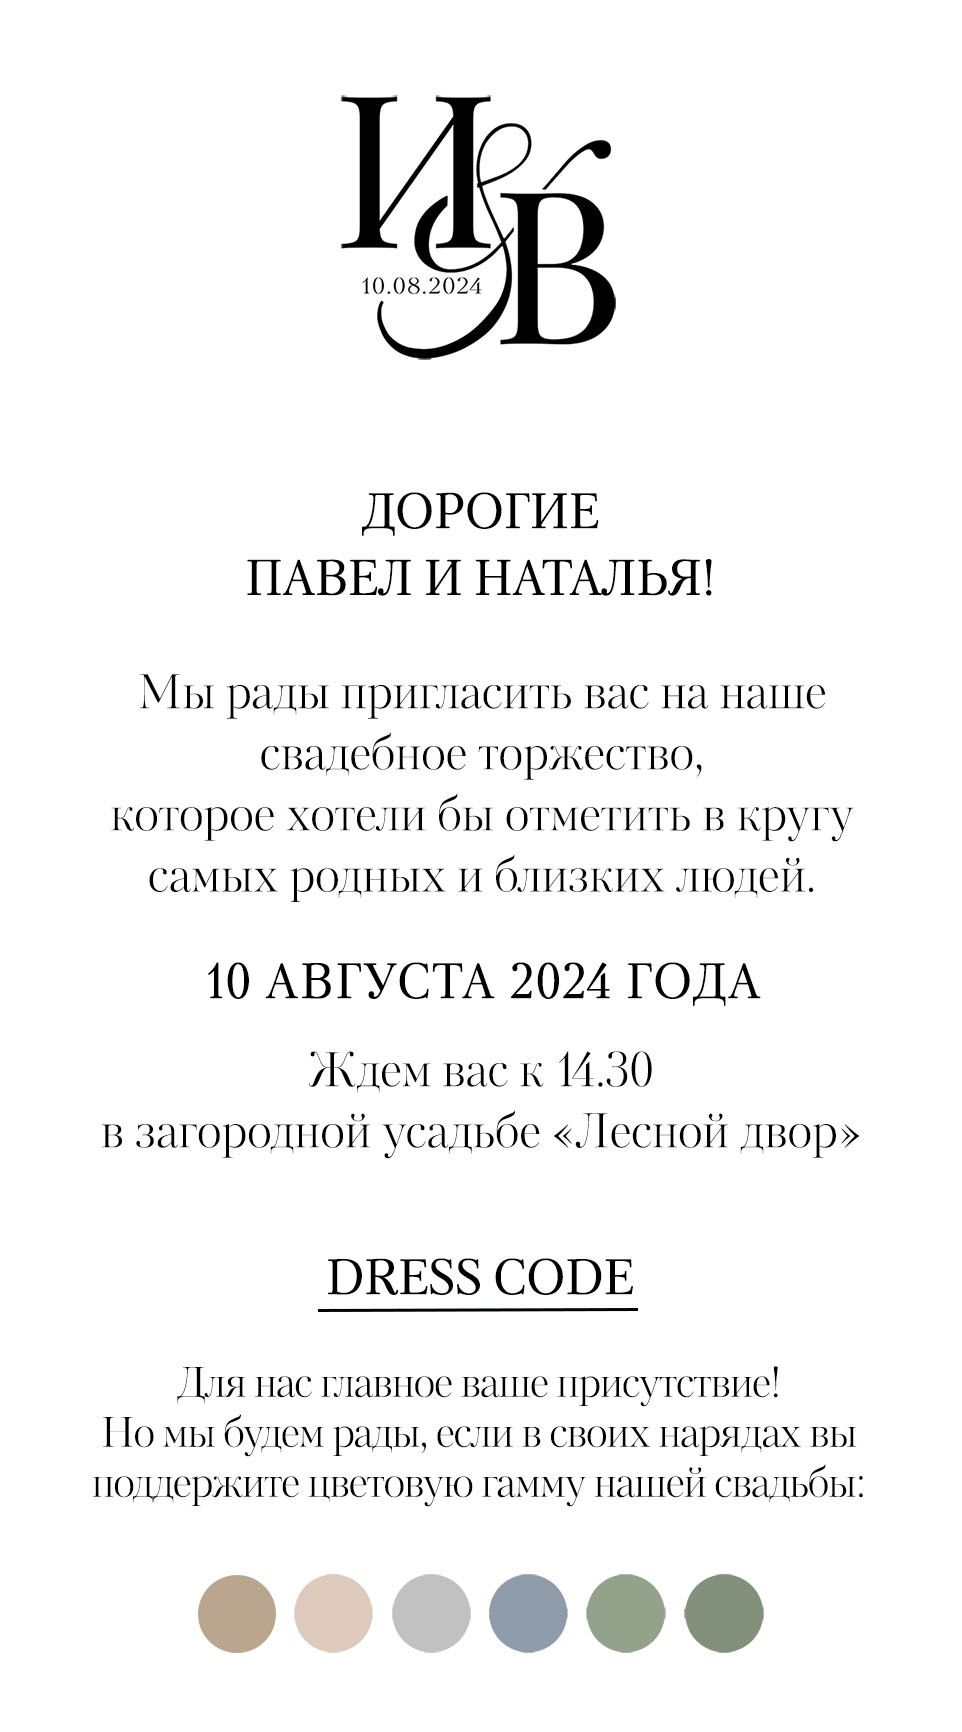
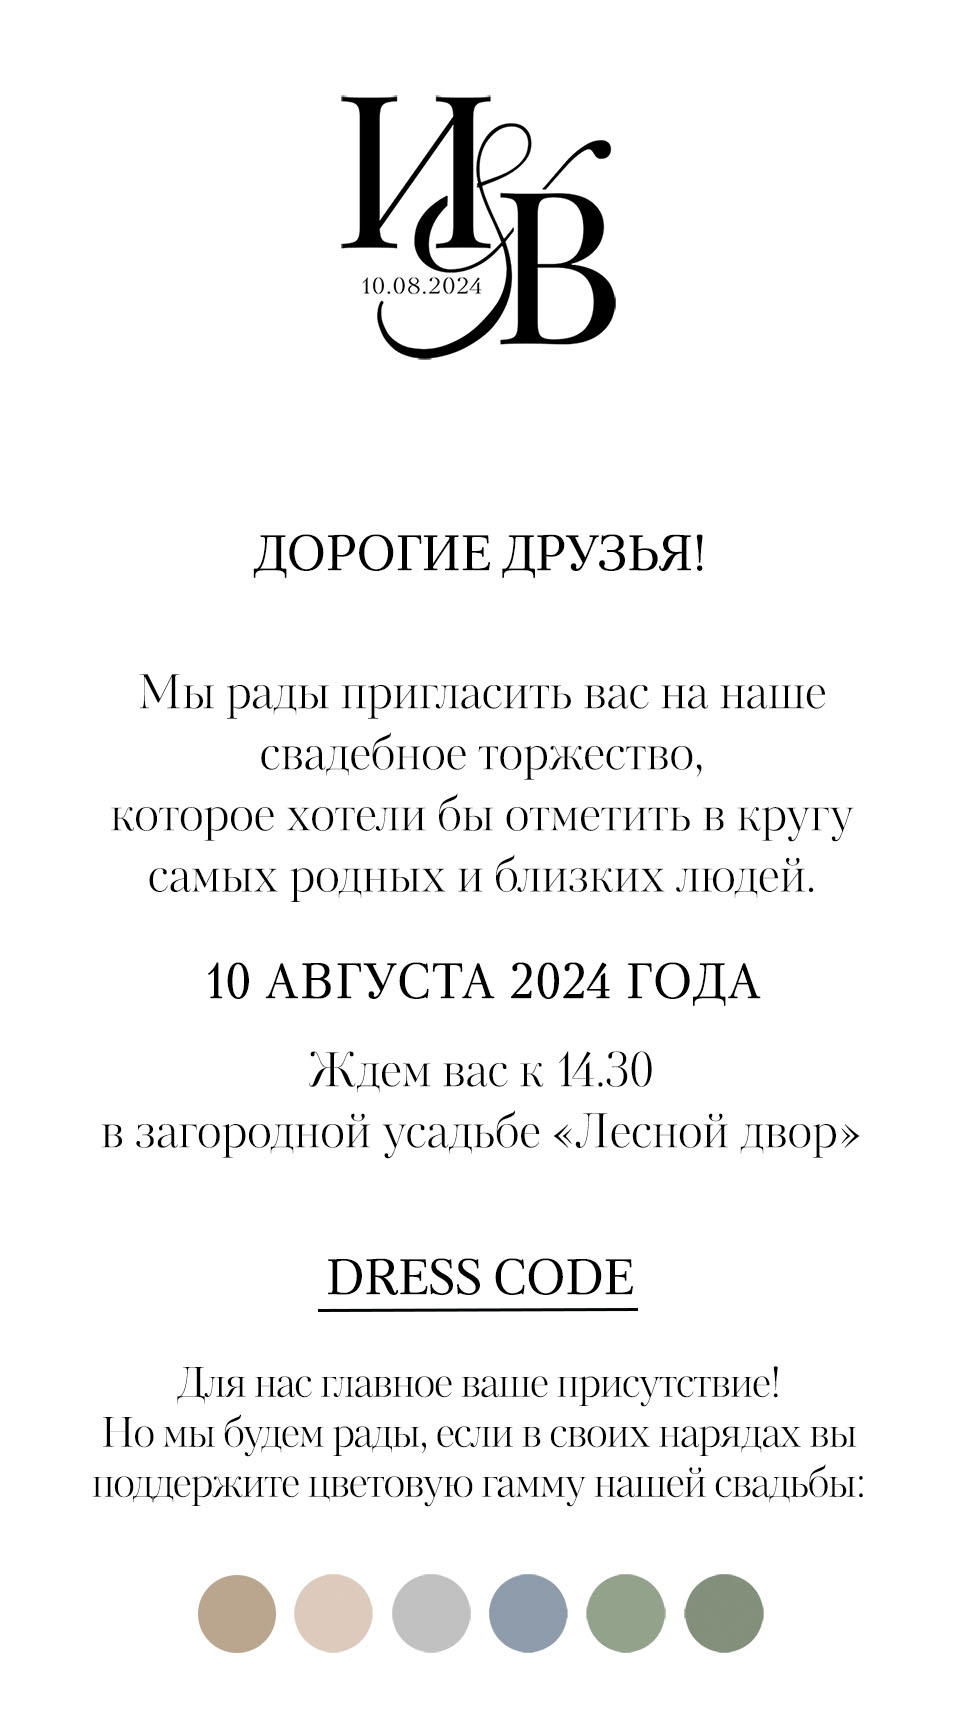
feat: guests

Changed region(s): [[0.2495, 0.2806, 0.7484, 0.343]]

diff --git a/admin/script.js b/admin/script.js
@@ -1,35 +1,34 @@
 const names = [
-  { id: '1', names: 'Дорогие дядя Ваня и тётя Ира!' },
-  { id: '2', names: 'Дорогие Анна и Константин !' },
-  { id: '3', names: 'Дорогие Елена и Наталья!' },
-  { id: '4', names: 'Дорогие Виктор, Ольга, Рома и Леша!' },
-  { id: '5', names: 'Дорогие Алеся, Михаил и Артем!' },
-  { id: '6', names: 'Дорогие Кирилл и Валерия!' },
-  { id: '7', names: 'Дорогие Алёна, Виктор, Анастасия и Яна!' },
-  { id: '8', names: 'Дорогие Сергей, Елена и Даник!' },
-  { id: '9', names: 'Дорогие Вадим, Екатерина, Василиса, Максим и Ксюша!' },
-  { id: '10', names: 'Дорогие Александр и Ксения!' },
-  { id: '11', names: 'Дорогие тетя Таня и дядя Саша!' },
-  { id: '12', names: 'Дорогие Максим, Наталья, Александрина и Дарина' },
-  { id: '13', names: 'Дорогие Денис и Татьяна!' },
-  { id: '14', names: 'Дорогие тетя Аня и дядя Саша!' },
-  { id: '15', names: 'Дорогие Валерия и Александр!' },
-  { id: '16', names: 'Дорогие тетя Нина и дядя Саша !' },
-  { id: '17', names: 'Дорогие Руслан, Татьяна, Нелли, Кира и Тимур!' },
-  { id: '18', names: 'Дорогие Марат, Виктория, Доминика и Дамир!' },
-  { id: '19', names: 'Дорогие тетя Наташа и Дядя Вова!' },
-  { id: '20', names: 'Дорогие Екатерина, Юрий, Максим и Арина!' },
-  { id: '21', names: 'Дорогие Алеся, Михаил и Никита!' },
-  { id: '22', names: 'Дорогие Светлана, Дмитрий и Виталина!' },
-  { id: '23', names: 'Дорогие Александра и Александр!' },
-  { id: '24', names: 'Дорогие дядя Саша, тетя Ира, Даша и София!' },
-  { id: '25', names: 'Уважаемые Ирина Николаевна, Антон и Артём!' },
-  { id: '26', names: 'Уважаемые Илья и Елена!' },
-  { id: '27', names: 'Дорогие Дмитрий и Карина!' },
-  { id: '28', names: 'Дорогой Артём!' },
-  { id: '29', names: 'Дорогая Мария!' },
-  { id: '30', names: 'Уважаемый Игорь!' },
-  { id: '31', names: 'Дорогие тетя Таня, Алеся, Света и Сергей!' },
+  { id: '1', names: 'Дорогие Александр и Наталья' },
+  { id: '2', names: 'Дорогие Евгений, Ирина, Никита и Вероника' },
+  { id: '3', names: 'Дорогие Ирина и Сергей' },
+  { id: '4', names: 'Дорогие Александр и Юлия' },
+  { id: '5', names: 'Дорогие Виктория и Василий' },
+  { id: '6', names: 'Дорогие Сергей и Светлана' },
+  { id: '7', names: 'Дорогие Александр и Наталья' },
+  { id: '8', names: 'Дорогие Константин и Виктория' },
+  { id: '9', names: 'Дорогие Никита и Мария' },
+  { id: '10', names: 'Дорогие Юрий и Алина' },
+  { id: '11', names: 'Дорогие Павел и Наталья' },
+  { id: '12', names: 'Дорогие Кирилл и Инна' },
+  { id: '13', names: 'Дорогие Роман и Диана' },
+  { id: '14', names: 'Дорогие Анна и Денис, Евгений и Дмитрий' },
+  { id: '15', names: 'Дорогие Олег и Елена' },
+  { id: '16', names: 'Дорогие Анжелика и Алексей' },
+  { id: '17', names: 'Дорогие Алеся и Евгений' },
+  { id: '18', names: 'Дорогие Юлия и Максим' },
+  { id: '19', names: 'Дорогие Ольга, Виталий и Александр' },
+  { id: '20', names: 'Дорогие Виталий и Вероника' },
+  { id: '21', names: 'Дорогие Игорь и Людмила' },
+  { id: '22', names: 'Дорогие Дмитрий и Вероника' },
+  { id: '23', names: 'Дорогие Виктория и Дмитрий' },
+  { id: '24', names: 'Дорогие Алена и Дмитрий' },
+  { id: '25', names: 'Дорогие Геннадий и Оксана' },
+  { id: '26', names: 'Дорогой Анатолий' },
+  { id: '27', names: 'Дорогой Глеб' },
+  { id: '28', names: 'Дорогая Евгения' },
+  { id: '29', names: 'Дорогие Александр и Екатерина' },
+  { id: '30', names: 'Дорогие Дмитрий и Татьяна' },
 ];
 
 const baseURL = location.href.replace('admin/', ''); //location.origin

diff --git a/script.js b/script.js
@@ -2,8 +2,8 @@ const main = document.querySelector('main');
 
 const img1 = document.getElementById('img1');
 const img2 = document.getElementById('img2');
-// const img3 = document.getElementById('img3');
-// const img4 = document.getElementById('img4');
+const img3 = document.getElementById('img3');
+const img4 = document.getElementById('img4');
 const imgWrappers = [...document.querySelectorAll('.img-wrapper')];
 
 const urlParams = new URLSearchParams(window.location.search);
@@ -12,21 +12,21 @@ const id = urlParams.get('id');
 const baseImgPath = './img/';
 const guestsImgPath = './img/guests/';
 
-if (+id && !isNaN(+id) && +id > 0 && +id <= 27) {
-  img1.src = guestsImgPath + `1_${id}.jpg`;
-  img2.src = baseImgPath + `2_2.jpg`;
+if (+id && !isNaN(+id) && +id > 0 && +id <= 25) {
+  //img1.src = guestsImgPath + `1_${id}.jpg`;
+  img2.src = guestsImgPath + `plural/2_${id}.jpg`;
   // img3.src = baseImgPath + '3.jpg';
   // img4.src = baseImgPath + '4.jpg';
-} else if (+id && !isNaN(+id) && +id === 31) {
-  img1.src = guestsImgPath + `1_${id}.jpg`;
-  img2.src = baseImgPath + `2_2.jpg`;
+} else if (+id && !isNaN(+id) && +id > 25 && +id <= 28) {
+  //img1.src = guestsImgPath + `1_${id}.jpg`;
+  img2.src = guestsImgPath + `single/2_${id}.jpg`;
   // img3.src = baseImgPath + '3.jpg';
-  // img4.src = baseImgPath + '4.jpg';
-} else if (+id && !isNaN(+id) && +id > 0 && +id <= 30) {
-  img1.src = guestsImgPath + `1_${id}.jpg`;
-  img2.src = baseImgPath + `2_1.jpg`;
+  img4.src = guestsImgPath + `single/4.jpg`;
+} else if (+id && !isNaN(+id) && +id > 28 && +id <= 30) {
+  //img1.src = guestsImgPath + `1_${id}.jpg`;
+  img2.src = guestsImgPath + `without/2_${id}.jpg`;
   // img3.src = baseImgPath + '3.jpg';
-  // img4.src = baseImgPath + '4.jpg';
+  img4.src = guestsImgPath + `without/4.jpg`;
 } else {
 }
 
